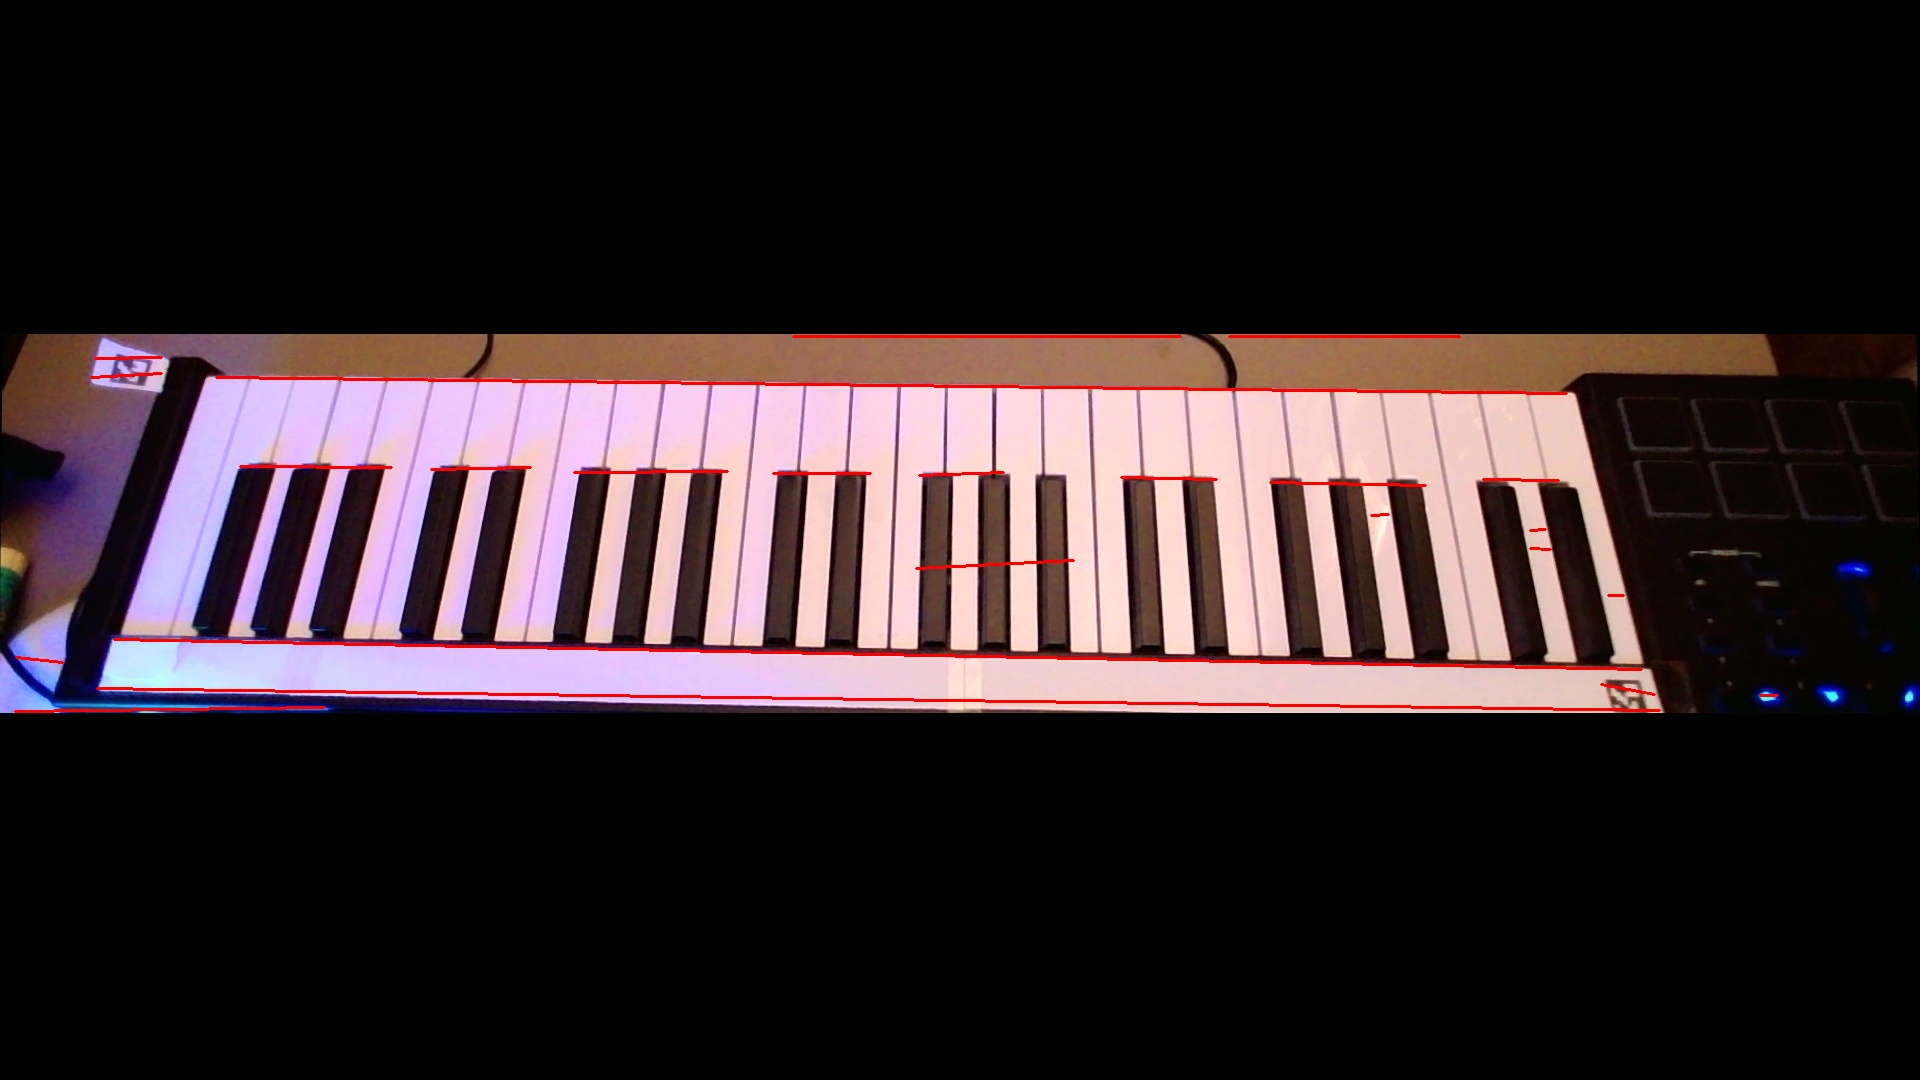
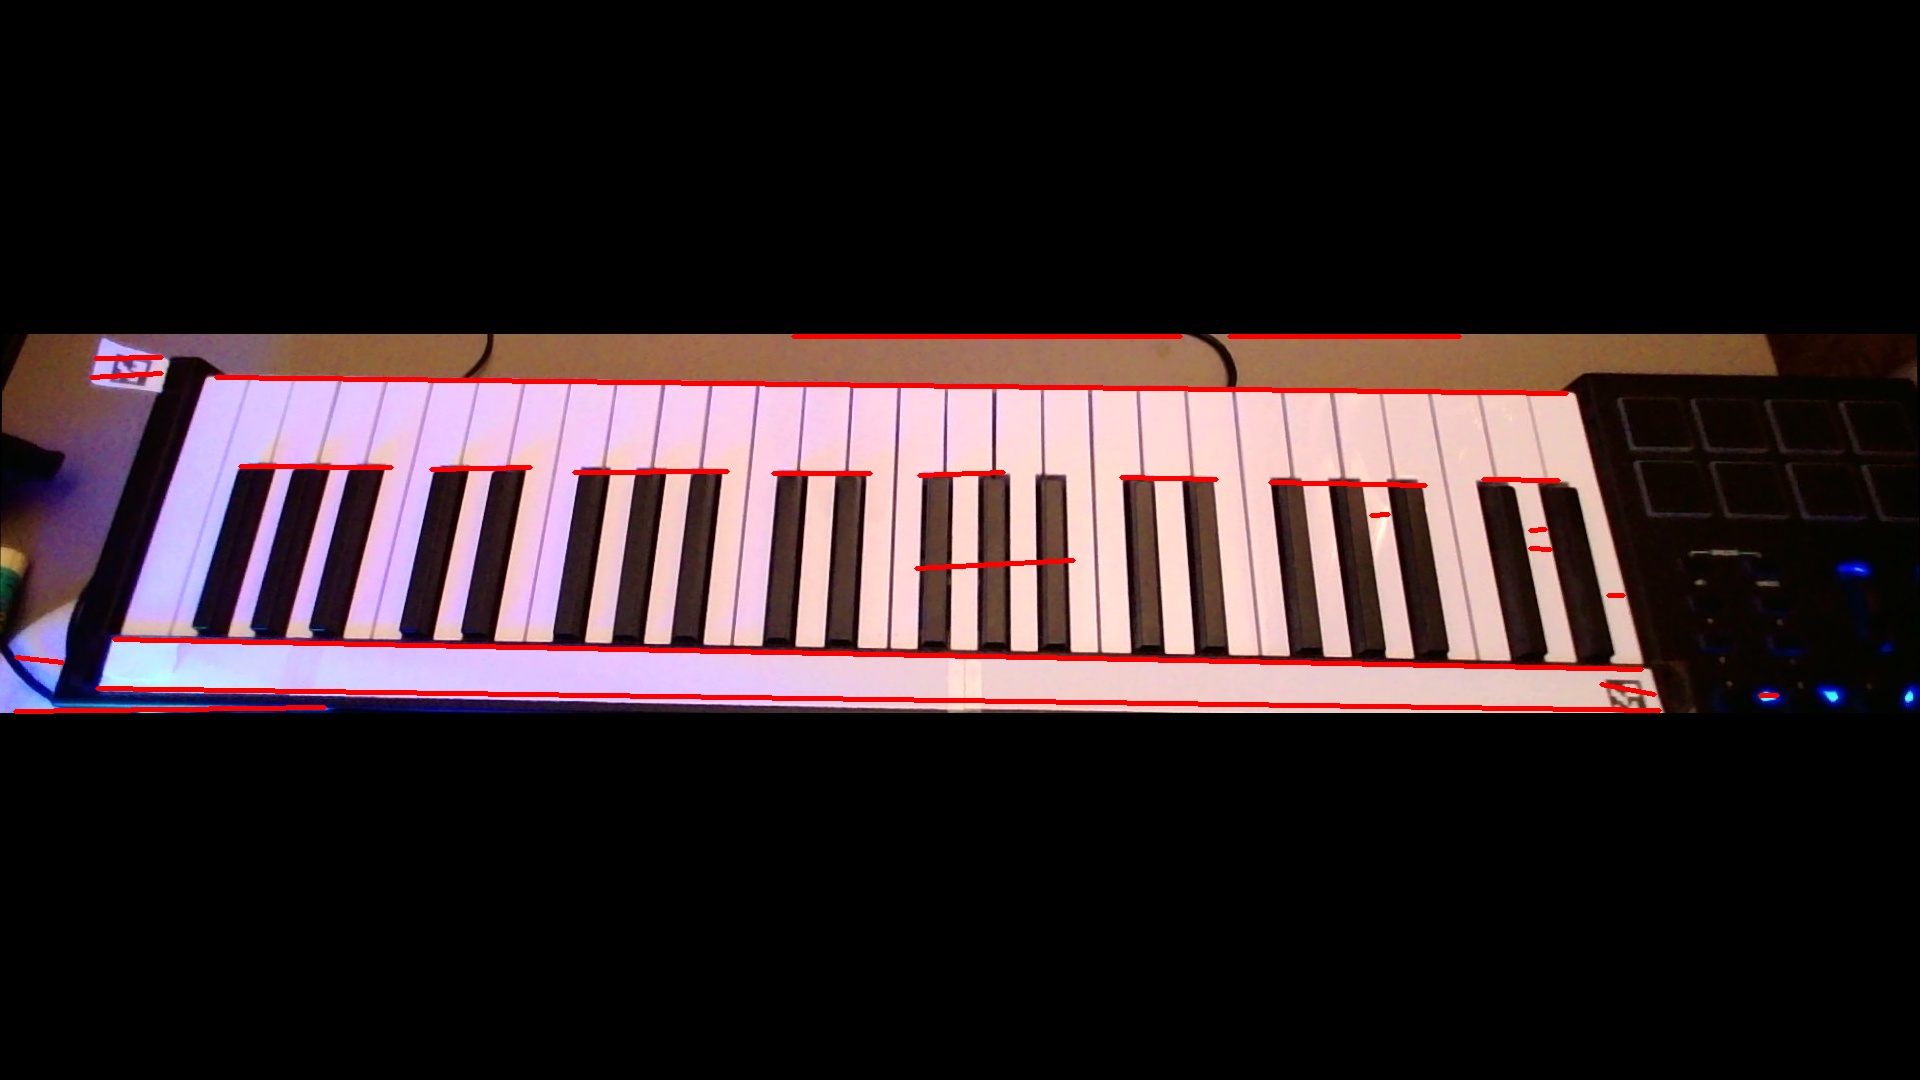
ait

diff --git a/piano.py b/piano.py
@@ -2,6 +2,8 @@
 # piano.py:  Main file to run to play the piano program
 # - - - - - - - - - - - - - - - - - - - - - - - - -
 import itertools
+import time
+
 import numpy as np
 import cv2
 from fiducial import *
@@ -87,6 +89,7 @@ def main():
         os.mkdir("predictions")
 
     # take_reference_image("predictions/original.jpg")
+    start = time.time()
 
     # - - - - - - - - - Find fiducial location - - - - - - - - - - - - - - - - - -
     img = cv2.imread("predictions/original.jpg")
@@ -120,7 +123,7 @@ def main():
     img = cv2.imread('predictions/cropped.jpg')
 
     for line in merged_lines_x:
-        cv2.line(img, (line[0][0], line[0][1]), (line[1][0], line[1][1]), (0, 0, 255), 2)
+        cv2.line(img, (line[0][0], line[0][1]), (line[1][0], line[1][1]), (0, 0, 255), 4)
 
     cv2.imwrite('predictions/hough.jpg', img)
 
@@ -129,7 +132,7 @@ def main():
     img = cv2.imread('predictions/cropped.jpg')
     merge_close(merged_lines_x, 30, 1)
     for line in merged_lines_x:
-        cv2.line(img, (line[0][0], line[0][1]), (line[1][0], line[1][1]), (0, 0, 255), 2)
+        cv2.line(img, (line[0][0], line[0][1]), (line[1][0], line[1][1]), (0, 0, 255), 4)
     cv2.imwrite('predictions/merged.jpg', img)
 
     # - - - - - - Find longest horizontal lines for keyboard edges - - - - - - - -
@@ -146,7 +149,7 @@ def main():
     p = cv2.imread('predictions/cropped.jpg')
     for e in ed[0:2]:
         e.sort()
-        cv2.line(p, e[0], e[1], (255, 0, 0), 2)
+        cv2.line(p, e[0], e[1], (0, 0, 255), 4)
     cv2.imwrite('predictions/selected_lines.jpg', p)  # draw longest two lines onto image and save
 
     ed.sort(key=lambda x: x[0][1])
@@ -208,6 +211,8 @@ def main():
 
     cv2.imwrite('predictions/transformed_withlines.jpg', perspective_keys)  # saves drawn on lines
 
+    print(time.time() - start)
+
     # # - - - - - - - - - - - Start of main function to run in real-time  - - - - - - - - - - - - - -
 
     cap = cv2.VideoCapture(0)  # Open the first camera connected to the computer.
@@ -226,7 +231,10 @@ def main():
 
     midi.init()
     midi_input = midi.Input(midi.get_default_input_id())
+    # video_out = cv2.VideoWriter('capture.avi', cv2.VideoWriter_fourcc(*'DIVX'), 20.0, (960, 540))
     output = []
+
+    times = []
 
     while True:
 
@@ -234,14 +242,14 @@ def main():
         new_img = cv2.undistort(new_img, camera_matrix, distortion_coeff, None, new_camera_matrix)
         height, width = new_img.shape[:2]
 
-        warped = cv2.warpPerspective(new_img, M, (width, height))
-        draw_white_keys(black_key_base_coord, height, warped, white_note_borders)
-        draw_black_keys(black_key_base_coord, height, warped, black_keys)
+        # draw_white_keys(black_key_base_coord, height, warped, white_note_borders)
+        # draw_black_keys(black_key_base_coord, height, warped, black_keys)
 
         if midi_input.poll():
             event = midi_input.read(1)
             if event[0][0][0] == MIDI_KEY_DOWN:
-
+                warped = cv2.warpPerspective(new_img, M, (width, height))
+                keydown_start = time.time()
                 # Find location of fingertips in np arrays
                 fingers = hand_tracker.fingers_find(new_img, width, height)
 
@@ -274,12 +282,17 @@ def main():
                 else:
                     print(note_name, 'MISSED')
                     output.append(note_name + ';missed\n')
+                times.append(time.time()-keydown_start)
 
-        scaled_down = cv2.resize(warped, (960, 540))
+        scaled_down = cv2.resize(new_img, (960, 540))
+        # video_out.write(scaled_down)
         cv2.imshow("Image", scaled_down)  # show current seen image from camera lens
         if cv2.waitKey(1) != -1:
             break
 
+    print(len(times))
+    print(sum(times)/len(times))
+    # video_out.release()
     file = open("output.txt", "w")
     file.writelines(output)
     file.close()
@@ -323,16 +336,16 @@ def finger_transform(M, finger_point):
 def draw_black_keys(black, height, keyboard, black_keys):
     for key in black_keys:
         for x in key:
-            cv2.line(keyboard, (x, black), (x, height), (255, 0, 0), 2)
+            cv2.line(keyboard, (x, black), (x, height), (0, 255, 0), 4)
 
 
 def draw_white_keys(black, height, keyboard, t):
     i = 0
     for num in t:
         if i in [0, 1, 5, 8, 12, 15, 19, 22, 26, 29]:
-            cv2.line(keyboard, (round(num), 0), (round(num), height), (0, 0, 255), 2)
+            cv2.line(keyboard, (round(num), 0), (round(num), height), (0, 0, 255), 4)
         else:
-            cv2.line(keyboard, (round(num), 0), (round(num), black), (0, 0, 255), 2)
+            cv2.line(keyboard, (round(num), 0), (round(num), black), (0, 0, 255), 4)
         i += 1
 
 

diff --git a/merged_hough.py b/merged_hough.py
@@ -105,6 +105,7 @@ def hough_get_distance(line1, line2):
 
 # hough_merge_pipeline: Creates the pipeline of all the merged lines and appends the merged lines to a list
 #                         input: min - changeable for the minimum distance the segments must be apart to be merged
+# This code has been adapted from Virtual Paper Piano - Aitken and Green, 2023
 def hough_merge_pipeline(lines, min):
     super_lines_final = []
     super_lines = []
@@ -162,7 +163,7 @@ def hough_merged_image(img, g1, g2, g3, min):
 
     merged_lines_x = flatten_and_merge(_lines, min)
 
-    return merged_lines_x  # , merged_lines_all # as merged_lines_y not required for future work
+    return merged_lines_x
 
 
 def combine(line1, line2, thresh_dist, thresh_angle):
